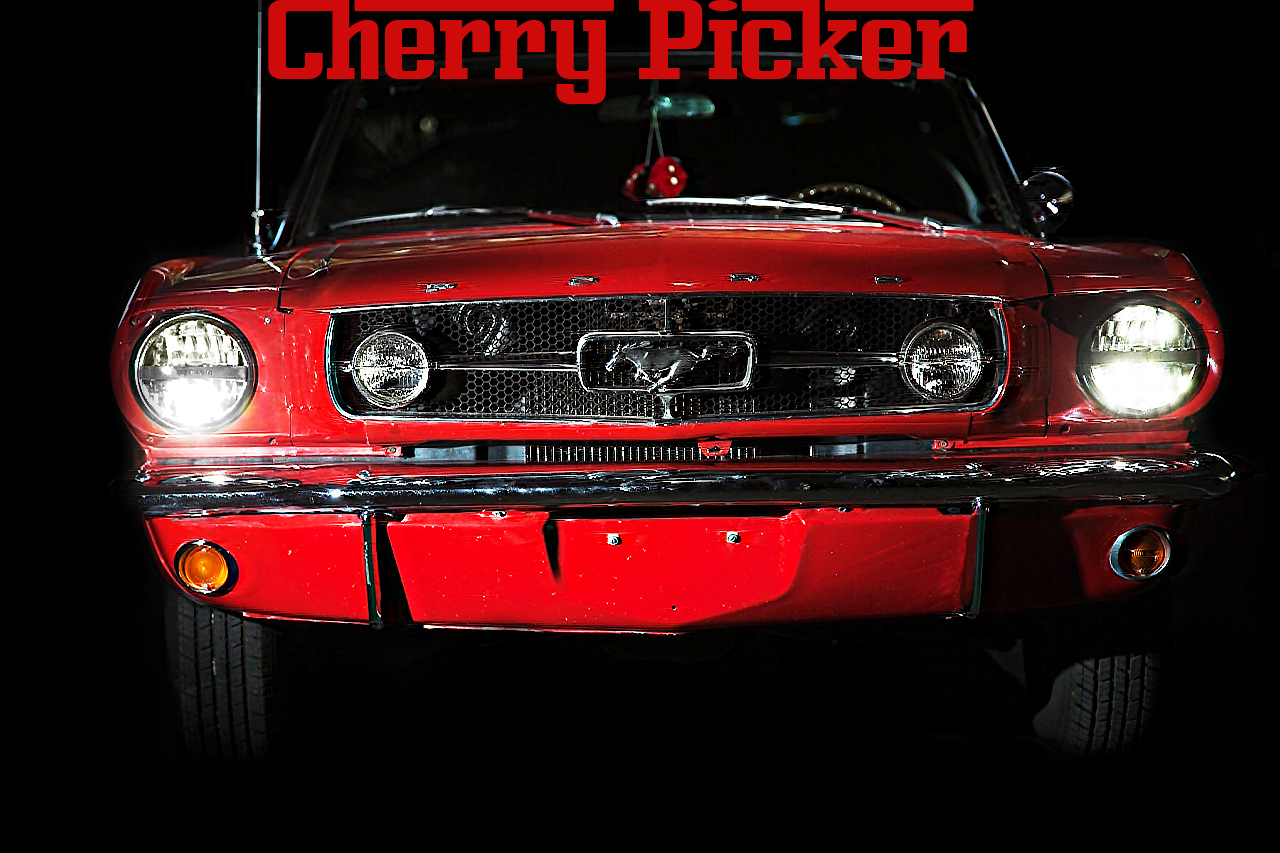
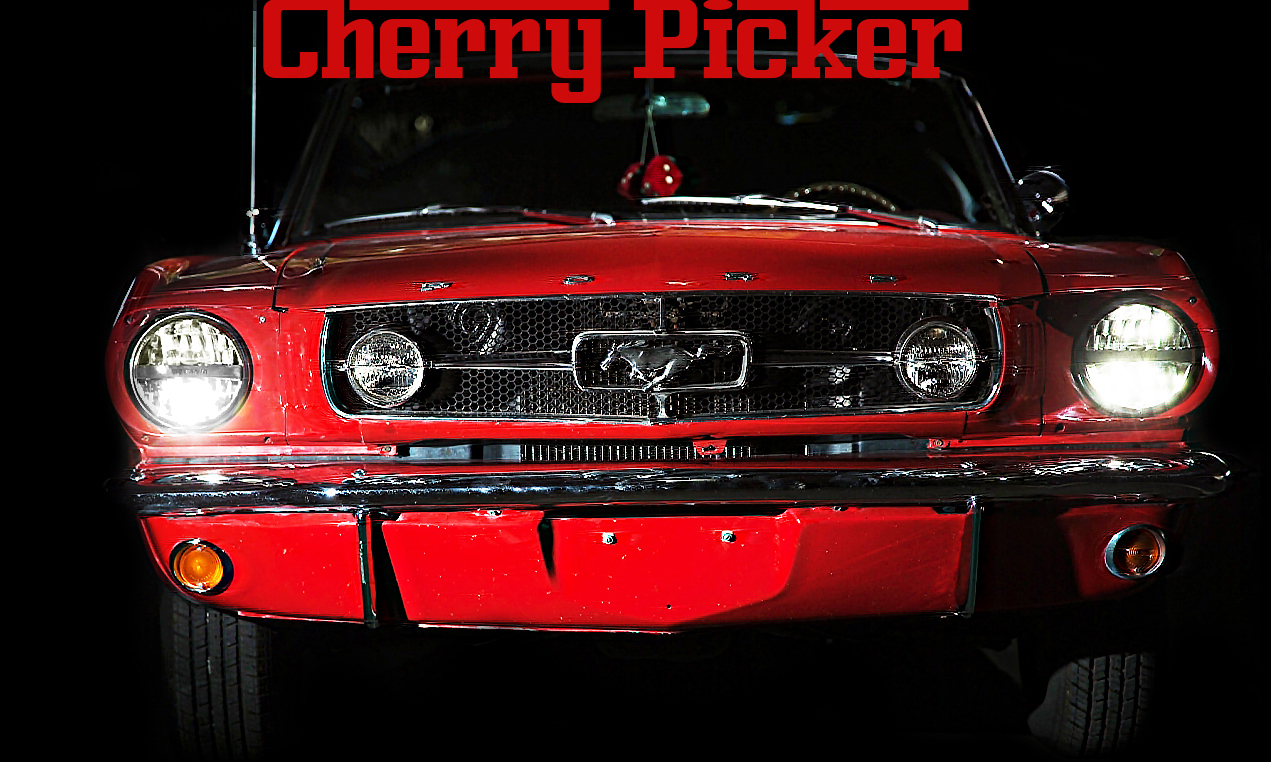
cover image shortened

diff --git a/moto-mern/src/index.css b/moto-mern/src/index.css
@@ -17,13 +17,11 @@ main {
 }
 
 
-/* * {
-  box-sizing: border-box;
-} */
-
 html,
 body {
   min-height: 100%;
+  margin-top: 0;
+  
 }
 
 body {
@@ -84,6 +82,7 @@ a {
   color: var(--tertiary);
   text-decoration: none;
   font-weight: bold;
+  margin-top: 0;
 }
 
 .navbar ul {
@@ -116,6 +115,7 @@ header a {
 
 a {
   position: relative;
+  margin-top: 0;
   margin-top: 1 px;
   display: inline-block;
   padding: 15px 30px;

diff --git a/moto-mern/src/components/About/index.js b/moto-mern/src/components/About/index.js
@@ -1,6 +1,6 @@
 import React from 'react'
 // import coverImage from "../../assets/cover/cover-image.jpg";
-import Plate from '../../assets/images/texas-plate.png';
+
 function About() {
 
   return (
